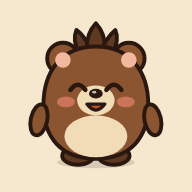
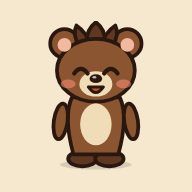
くまトイを卵型からすらっとした体(頭と細い胴を分けたシルエット)に変更

Changed region(s): [[0.125, 0.0938, 0.875, 0.9062]]

diff --git a/js/bear.js b/js/bear.js
@@ -1,38 +1,39 @@
 /* くまトイ: ヒグマのマスコット(ますくん・だるま と同じく、体の形 + 表情の切り替え)
-   少しシュッとした縦長の体と、頭のとさか風の毛(3本)が特徴。
+   すらっとした体(頭と細い胴を分けたシルエット)と、頭のとさか風の毛(3本)が特徴。
    mood: 'normal' | 'happy' | 'worried' | 'sleep'(true は worried)。ゆれ・まばたきは CSS(.bear) */
 function bearSvg(size,mood){
   const m=mood===true?'worried':(mood||'normal');
   const INK='#2a1810', FUR='#8a5530', FUR_D='#5e3820', CREAM='#f1dcb8';
   const eyes={
-    normal:`<g class="eyes"><ellipse cx="38" cy="44" rx="3.8" ry="4.8" fill="${INK}"/><ellipse cx="62" cy="44" rx="3.8" ry="4.8" fill="${INK}"/><circle cx="39.3" cy="42" r="1.5" fill="#fff"/><circle cx="63.3" cy="42" r="1.5" fill="#fff"/></g>`,
-    happy:`<path d="M33 46 Q38 39 43 46M57 46 Q62 39 67 46" fill="none" stroke="${INK}" stroke-width="3" stroke-linecap="round"/>`,
-    sleep:`<path d="M33 44 Q38 48 43 44M57 44 Q62 48 67 44" fill="none" stroke="${INK}" stroke-width="3" stroke-linecap="round"/>`,
+    normal:`<g class="eyes"><ellipse cx="40" cy="33" rx="3.4" ry="4.3" fill="${INK}"/><ellipse cx="60" cy="33" rx="3.4" ry="4.3" fill="${INK}"/><circle cx="41.2" cy="31.3" r="1.3" fill="#fff"/><circle cx="61.2" cy="31.3" r="1.3" fill="#fff"/></g>`,
+    happy:`<path d="M35.5 35 Q40 29 44.5 35M55.5 35 Q60 29 64.5 35" fill="none" stroke="${INK}" stroke-width="2.8" stroke-linecap="round"/>`,
+    sleep:`<path d="M35.5 33 Q40 36.5 44.5 33M55.5 33 Q60 36.5 64.5 33" fill="none" stroke="${INK}" stroke-width="2.8" stroke-linecap="round"/>`,
   };
   eyes.worried=eyes.normal;
-  const brows=m==='worried'?`<path d="M32 36 L43 39M68 36 L57 39" stroke="${INK}" stroke-width="2.6" stroke-linecap="round"/>`
-    :m==='normal'?`<path d="M33 36.5 Q38 34 43 36M57 36 Q62 34 67 36.5" fill="none" stroke="${FUR_D}" stroke-width="2.4" stroke-linecap="round"/>`:'';
-  const mouth=m==='worried'?`<path d="M45 60 Q50 55.5 55 60" fill="none" stroke="${INK}" stroke-width="2.4" stroke-linecap="round"/>`
-    :m==='happy'?`<path d="M44 55.5 Q50 63.5 56 55.5Z" fill="#c4521f" stroke="${INK}" stroke-width="2.2" stroke-linejoin="round"/>`
-    :`<path d="M44 56 Q47 60 50 55.8 Q53 60 56 56" fill="none" stroke="${INK}" stroke-width="2.4" stroke-linecap="round" stroke-linejoin="round"/>`;
-  const extra=m==='worried'?'<path d="M77 34c3 4 4 7 4 9a4 4 0 0 1-8 0c0-2 1-5 4-9z" fill="#8fd3f4" stroke="#4aa3d0" stroke-width="1"/>'
-    :m==='sleep'?`<g fill="${FUR_D}" font-family="sans-serif" font-weight="800"><text x="83" y="22" font-size="10">z</text><text x="90" y="12" font-size="8">z</text></g>`:'';
+  const brows=m==='worried'?`<path d="M34 28 L45 31M66 28 L55 31" stroke="${INK}" stroke-width="2.4" stroke-linecap="round"/>`
+    :m==='normal'?`<path d="M35 27.5 Q40 25 45 27M55 27 Q60 25 65 27.5" fill="none" stroke="${FUR_D}" stroke-width="2.2" stroke-linecap="round"/>`:'';
+  const mouth=m==='worried'?`<path d="M45.5 47.5 Q50 43.5 54.5 47.5" fill="none" stroke="${INK}" stroke-width="2.2" stroke-linecap="round"/>`
+    :m==='happy'?`<path d="M45 44 Q50 51.5 55 44Z" fill="#c4521f" stroke="${INK}" stroke-width="2" stroke-linejoin="round"/>`
+    :`<path d="M45 44.2 Q47.5 47.8 50 43.8 Q52.5 47.8 55 44.2" fill="none" stroke="${INK}" stroke-width="2.2" stroke-linecap="round" stroke-linejoin="round"/>`;
+  const extra=m==='worried'?'<path d="M79 22c2.6 3.4 3.6 6 3.6 7.8a3.6 3.6 0 0 1-7.2 0c0-1.8 1-4.4 3.6-7.8z" fill="#8fd3f4" stroke="#4aa3d0" stroke-width="1"/>'
+    :m==='sleep'?`<g fill="${FUR_D}" font-family="sans-serif" font-weight="800"><text x="80" y="16" font-size="9">z</text><text x="87" y="7" font-size="7">z</text></g>`:'';
   return `<svg class="bear" width="${size}" height="${size}" viewBox="0 0 100 100" aria-hidden="true">
-<ellipse cx="50" cy="94.5" rx="26" ry="3.8" fill="#000" opacity=".12"/>
-<g stroke="${INK}" stroke-width="2.6" stroke-linejoin="round">
-<ellipse cx="38" cy="90" rx="10.5" ry="6" fill="${FUR_D}"/><ellipse cx="62" cy="90" rx="10.5" ry="6" fill="${FUR_D}"/>
-<circle cx="28" cy="25" r="10.5" fill="${FUR}"/><circle cx="72" cy="25" r="10.5" fill="${FUR}"/>
-<path d="M39 22Q34 13 37 6Q43 10 47 21Z" fill="${FUR_D}"/>
-<path d="M44 21Q43 9 50 1.5Q57 9 56 21Z" fill="${FUR_D}"/>
-<path d="M53 21Q57 11 63 6Q66 13 61 22Z" fill="${FUR_D}"/>
-<path d="M50 17C73 17 85 34 85 56 85 78 73 92 50 92 27 92 15 78 15 56 15 34 27 17 50 17Z" fill="${FUR}"/>
-<ellipse cx="12" cy="66" rx="5.5" ry="10.5" transform="rotate(12 12 66)" fill="${FUR}"/><ellipse cx="88" cy="66" rx="5.5" ry="10.5" transform="rotate(-12 88 66)" fill="${FUR}"/>
+<ellipse cx="50" cy="96" rx="24" ry="3.2" fill="#000" opacity=".12"/>
+<g stroke="${INK}" stroke-width="2.5" stroke-linejoin="round">
+<ellipse cx="41" cy="92" rx="9.5" ry="5" fill="${FUR_D}"/><ellipse cx="59" cy="92" rx="9.5" ry="5" fill="${FUR_D}"/>
+<path d="M34 51C29 62 32 78 35 89L65 89C68 78 71 62 66 51Z" fill="${FUR}"/>
+<ellipse cx="26.5" cy="67" rx="4.6" ry="12" transform="rotate(8 26.5 67)" fill="${FUR}"/><ellipse cx="73.5" cy="67" rx="4.6" ry="12" transform="rotate(-8 73.5 67)" fill="${FUR}"/>
+<circle cx="29" cy="15" r="9.5" fill="${FUR}"/><circle cx="71" cy="15" r="9.5" fill="${FUR}"/>
+<path d="M39 17Q34 9 37 3Q43 7 47 16Z" fill="${FUR_D}"/>
+<path d="M44 16Q43 6 50 0.8Q57 6 56 16Z" fill="${FUR_D}"/>
+<path d="M53 16Q57 7 63 3Q66 9 61 17Z" fill="${FUR_D}"/>
+<ellipse cx="50" cy="33" rx="26" ry="21" fill="${FUR}"/>
 </g>
-<circle cx="28" cy="26" r="5.2" fill="#f2b8a0"/><circle cx="72" cy="26" r="5.2" fill="#f2b8a0"/>
-<ellipse cx="50" cy="77" rx="21" ry="14" fill="${CREAM}"/>
-<ellipse cx="30" cy="54" rx="6" ry="3.6" fill="#ff8f7a" opacity=".55"/><ellipse cx="70" cy="54" rx="6" ry="3.6" fill="#ff8f7a" opacity=".55"/>
-<ellipse cx="50" cy="53" rx="12.5" ry="10" fill="${CREAM}"/>
-<ellipse cx="50" cy="48.5" rx="4.6" ry="3.2" fill="${INK}"/><ellipse cx="48.9" cy="47.5" rx="1.4" ry=".9" fill="#fff" opacity=".7"/>
+<circle cx="29" cy="16" r="4.6" fill="#f2b8a0"/><circle cx="71" cy="16" r="4.6" fill="#f2b8a0"/>
+<ellipse cx="50" cy="69" rx="10.5" ry="14" fill="${CREAM}"/>
+<ellipse cx="31.5" cy="42" rx="5" ry="3" fill="#ff8f7a" opacity=".55"/><ellipse cx="68.5" cy="42" rx="5" ry="3" fill="#ff8f7a" opacity=".55"/>
+<ellipse cx="50" cy="42" rx="11" ry="8.5" fill="${CREAM}"/>
+<ellipse cx="50" cy="38.5" rx="4.2" ry="2.9" fill="${INK}"/><ellipse cx="49" cy="37.6" rx="1.3" ry=".8" fill="#fff" opacity=".7"/>
 ${brows}${eyes[m]}${mouth}${extra}
 </svg>`;
 }

diff --git a/index.html b/index.html
@@ -9,8 +9,8 @@
 <meta name="theme-color" content="#1a1714" media="(prefers-color-scheme: dark)">
 <meta name="color-scheme" content="light dark">
 <link rel="manifest" href="manifest.webmanifest?v=861daa9a">
-<link rel="apple-touch-icon" href="apple-touch-icon.png?v=c14681ba">
-<link rel="icon" href="icon-192.png?v=46bdac1f">
+<link rel="apple-touch-icon" href="apple-touch-icon.png?v=8505409c">
+<link rel="icon" href="icon-192.png?v=5de5f8df">
 <meta name="apple-mobile-web-app-capable" content="yes">
 <meta name="mobile-web-app-capable" content="yes">
 <meta name="apple-mobile-web-app-status-bar-style" content="default">
@@ -58,7 +58,7 @@
 <script src="js/geo.js?v=1a5e67f5"></script>
 <script src="js/hours.js?v=00fea5ba"></script>
 <script src="js/icons.js?v=20d36588"></script>
-<script src="js/bear.js?v=c9fc5fa9"></script>
+<script src="js/bear.js?v=4898e890"></script>
 <script src="js/cloud.js?v=1c62d3ac"></script>
 <script src="js/map.js?v=79ed05f6"></script>
 <script src="js/settings.js?v=4cdccf97"></script>
